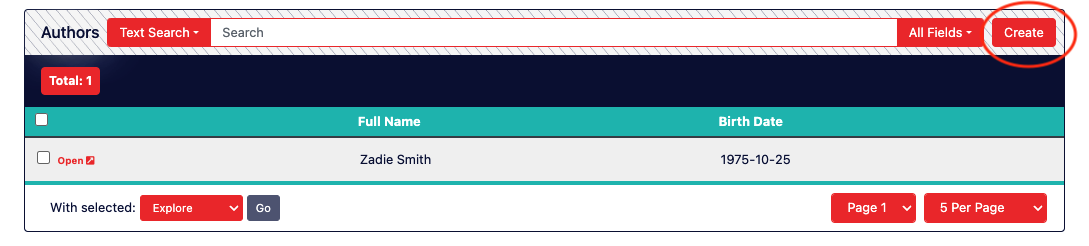
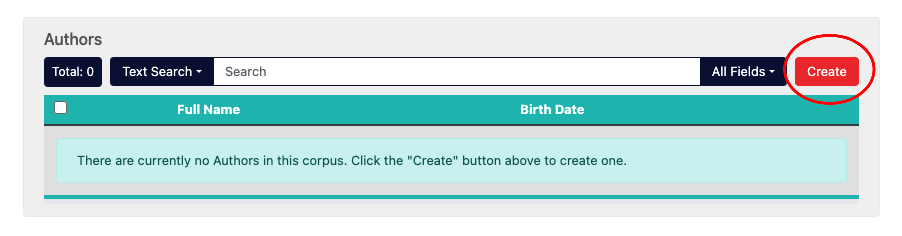
minor updates to documentation, replaced most screenshots to reflect new interface

diff --git a/docs/src/docs/style.css b/docs/src/docs/style.css
@@ -80,3 +80,8 @@ pre code.hljs {
     padding: 1em;
     line-height: 1.4;
 }
+
+.document img {
+    width: 100%;
+    height: auto;
+}

diff --git a/docs/src/docs/index.md b/docs/src/docs/index.md
@@ -121,12 +121,17 @@ When you scroll to the bottom of the page, you’ll see a series of buttons–cl
 
 ![Corpus Creation Dialog](assets/img/create.png "Corpus Creation Dialog")
 
-In the form provided, provide the following information. Name: A title for the corpus, usually an acronym or a short
-phrase. Description: A longer description for the purpose of distinguishing the corpus. Open Access: When this checkbox
+In the form provided, provide the following information:
+
+* `Name`: A title for the corpus, usually an acronym or a short
+phrase.
+* `Description`: A longer description for the purpose of distinguishing the corpus.
+* `Open Access`: When this checkbox
 is checked, users will be able to see your content and use the various content API’s to search/query your corpus without
 having to log into Corpora. Leaving this checkbox unchecked will mean that users will have to log in and have explicit
 permissions in order to see your content. Any external computers wishing to access the content API’s will also need to
 have a scholar account with their IP addresses registered, and will also need to use an authentication token.
+* `Include default content types from Document plugin`: If this box is checked, three content types from the [Document plugin](/corpora/plugins/) will be added to your corpus upon creation: `Document`, which is structured to support paged artifacts that can be cataloged according to the [FRBR standard](https://www.oclc.org/research/activities/frbr.html) (work, expression, manifestation, and item); `TranscriptionProject`, which organizes pages of transcribed text; and `Transcription`, which represents a page of transcribed text. These default content types would allow a user the ability to upload document pages (via PDF, for instance) and transcribe them using a special transcription GUI.
 
 Click the “Create” button to proceed. Once the corpus has been created, you’ll still be on the home screen showing the
 corpora available to you, but should now see your new corpus listed among them. Click on the name of your corpus to
@@ -227,6 +232,12 @@ Once you’ve made the appropriate choices to define your field, click the orang
 When you are satisfied with how your content types(s) and fields are defined, you must save your content type schema by scrolling down below the list of content types and clicking the orange “Save Changes” button on the bottom right (in the same horizontal space as the “New Content Type” button):
 
 ![Content Type Save Button](assets/img/ct_manager_save.png "Content Type Save Button")
+
+Once you click the save button, the page refreshes and an asynchronous job is launched whose task is to reconfigure the backend data structures according to your new Content Type schema. When an asynchronous job like this completes, you'll see a small alert appear on the bottom-right of the page letting you know you should probably refresh the page before proceeding:
+
+![Job Completion Alert](assets/img/job_alert.png "Job Completion Alert")
+
+**It is very important** to go ahead and perform that refresh, especially if you are continuing to build out your Content Type schema--you want to make sure the changes you just made are reflected on the page before making further changes.
 
 ### Creating Content
 

diff --git a/docs/src/docs/developing.md b/docs/src/docs/developing.md
@@ -722,7 +722,7 @@ The heart of Corpora's backend codebase lives [here](https://github.com/bptarple
 
 Inside that giant file are also classes that describe JobSites, Tasks, and Jobs in order to support Corpora's asynchronous job queue.
 
-The frontend "heart" of Corpora's codebase is [here](https://github.com/bptarpley/corpora/blob/main/app/static/js/corpora.js). These are JavaScript objects that provide functionality for much of Corpora's web interface, including its Content Tables, its Job Manager, and its Content Graphs.
+The frontend "heart" of Corpora's codebase is broken up into object-based files found in [this directory](https://github.com/bptarpley/corpora/tree/main/app/static/js/corpora). These JavaScript objects provide functionality for much of Corpora's web interface, including its Content Tables, Graphs, and Groups; as well as its Job Manager.
 
 ### Why is this codebase missing certain necessities like comment headers above functions and code tests?
 
